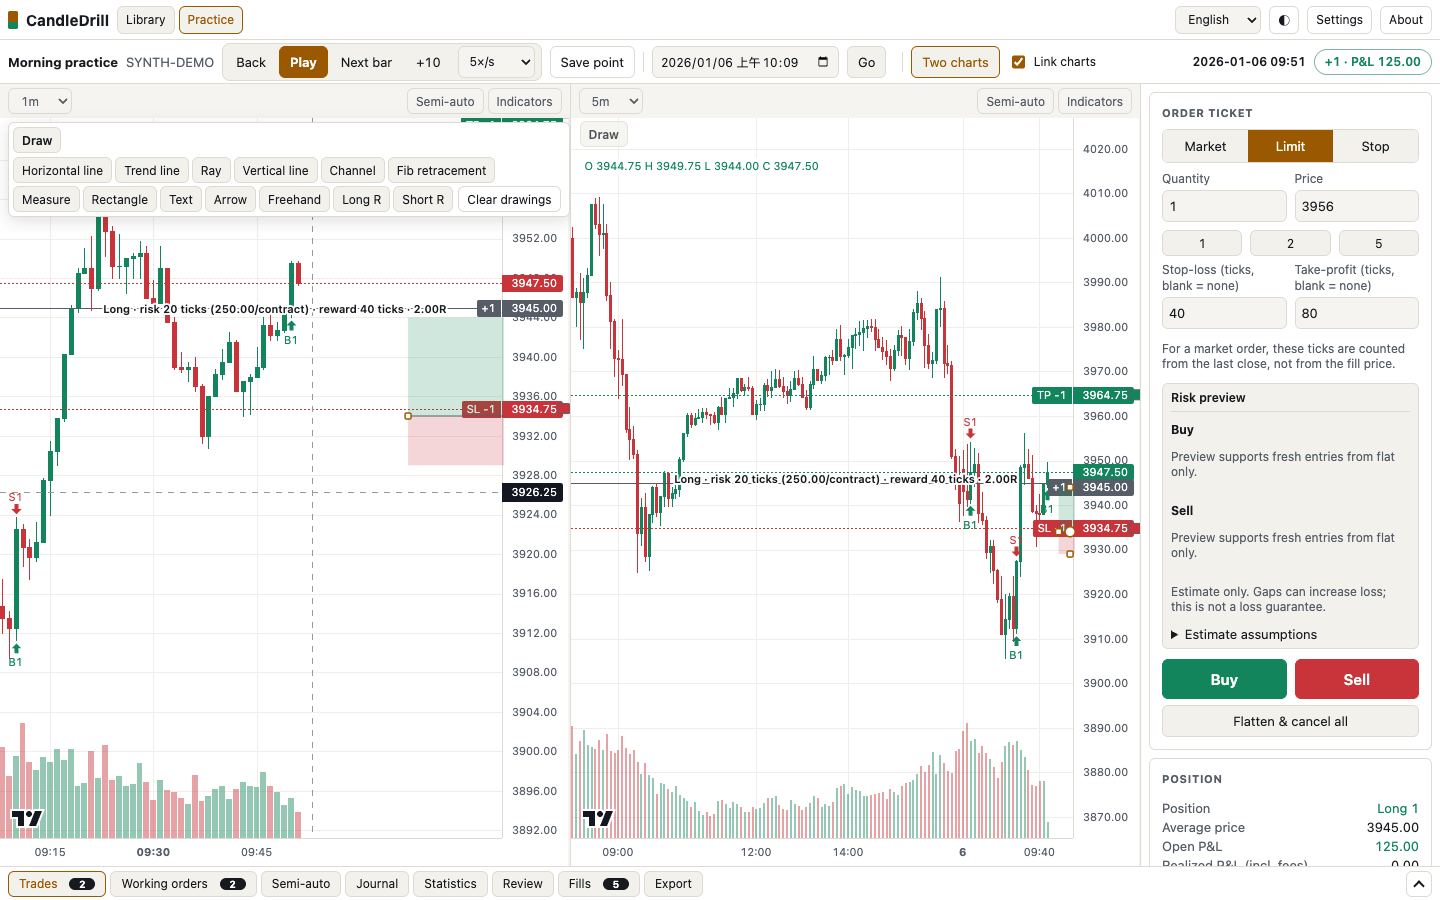
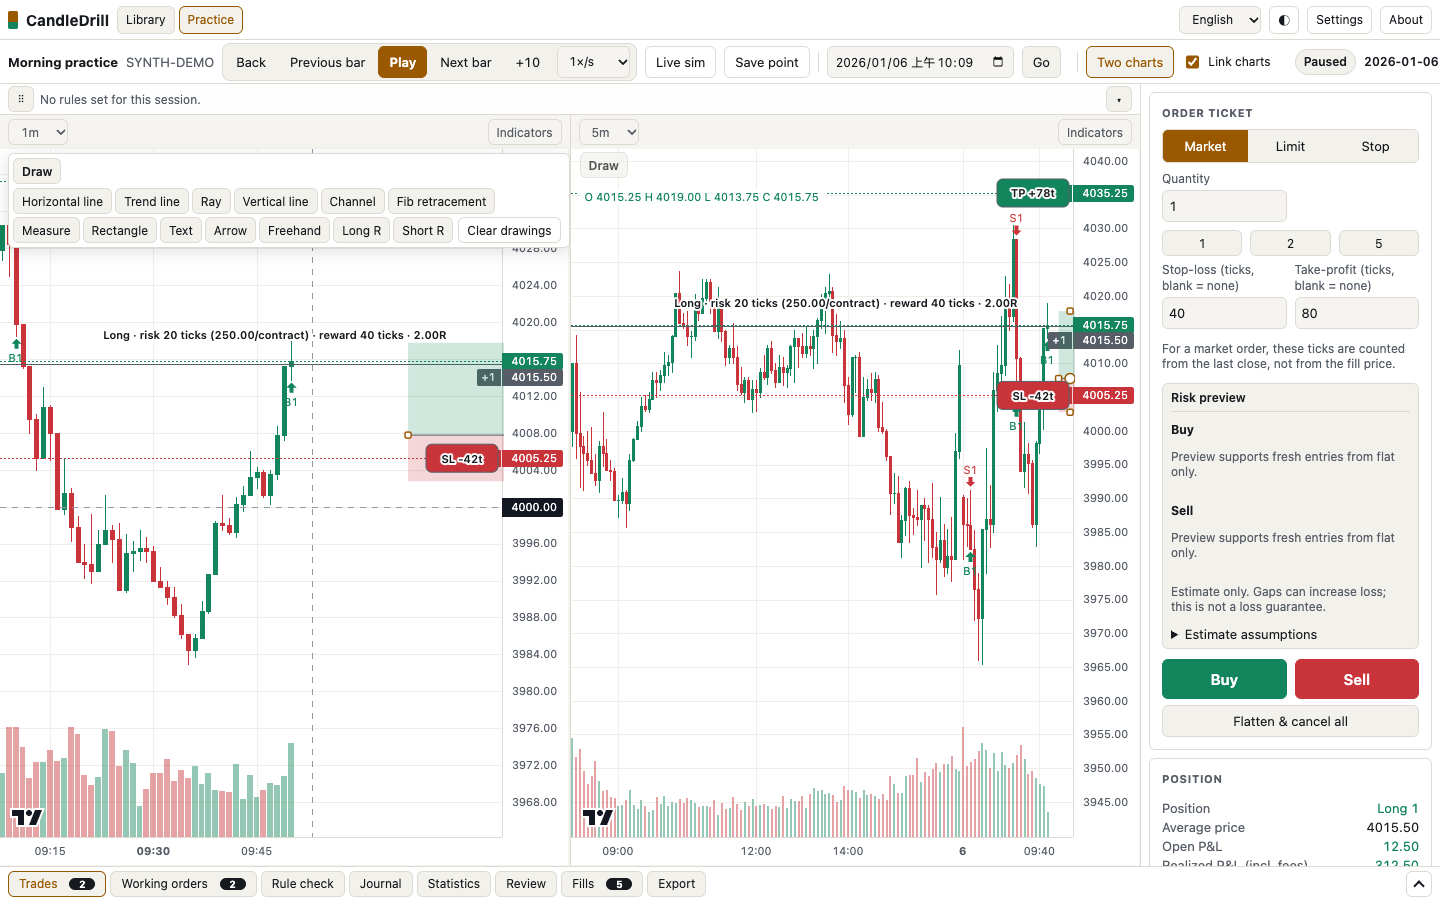
docs: regenerate README screenshots for v1.4.1

diff --git a/README.md b/README.md
@@ -85,6 +85,10 @@ npm start
 - **規則即時觸發：** 每日虧損、追蹤回撤、盈利目標在 tick 上計算，不必等到收棒。
 - 這裡的成交只留在這個畫面，不會寫回回放練習。盲練隱藏數據集時不能開（下一根 K 的高低收不可用）。
 
+![即時模擬：播放中、未平倉盈虧，以及 SYNTHETIC 標記](docs/shot-live-sim.png)
+
+<sub>**即時模擬** — 合成 tick 路徑，並非真實市價。畫面標 SYNTHETIC。</sub>
+
 ### 下單
 
 - 市價／限價／觸價單，括號單（止蝕／止賺以跳計），數量快捷，一鍵平倉。
@@ -131,7 +135,7 @@ npm start
 - **每日盈虧**日曆，以及搜尋／篩選（標籤、筆記、策略、方向、結果、日期）。
 - **檢討**分頁：按已平倉交易的權益曲線、R 分佈、**Monte Carlo**（同一批交易打亂次序，顯示最大回撤百分位及觸及回撤上限的比例；屬模擬，並非預測）。
 
-![檢討分頁：權益曲線、R 分佈、Monte Carlo](docs/shot-review.png)
+![日誌：策略、市況、情緒、是否按計劃、計劃與執行](docs/shot-review.png)
 
 <sub>**檢討** — 合成 `SYNTH-` 示範資料。</sub>
 
@@ -147,7 +151,7 @@ npm start
 
 可搜尋目錄約 **36** 項技術指標（連成交量直方圖共 37 項），只根據**已揭示**的 K 棒計算。原有：SMA／EMA（任意週期）、布林通道、盤中 VWAP、開盤區間（ORB）、唐奇安、RSI、MACD、ATR、隨機指標、ADX。新增包括：肯特納、一目均衡表、超級趨勢、CCI、OBV、蔡金資金流（CMF）、拋物線 SAR、威廉指標、之字轉折、動量震盪（Awesome Oscillator）、包絡線、DEMA、TEMA、WMA、赫爾均線、動量、ROC、阿隆、VWAP 偏差帶、標準誤帶、多空力道（Balance of Power）、KDJ、VWMA、價格通道、艾達射線。完整清單與公式見 [docs/INDICATORS.md](docs/INDICATORS.md)。設定留在本瀏覽器。
 
-![指標面板：已啟用 SMA 9/20/50 與 RSI](docs/shot-indicators.png)
+![指標面板：已啟用超級趨勢與肯特納](docs/shot-indicators.png)
 
 <sub>**指標** — 疊加線與下方視窗。合成 `SYNTH-` 示範資料。</sub>
 
@@ -331,6 +335,10 @@ A second practice mode beside bar replay. The toolbar switches to **Live sim**. 
 - **Tick-level fills:** market, limit, stop and bracket orders (with slippage) fill on a tick, not on the practice-timeframe close.
 - **Rules fire in real time:** daily loss, trailing drawdown and profit target are evaluated on each tick, not at bar close.
 - Fills stay on this screen and are not written back into the replay session. Live sim is unavailable while a blind session hides the dataset (the next bar's OHLC is not available).
+
+![Live sim: playing, an open position with live P&L, and the SYNTHETIC badge](docs/shot-live-sim.png)
+
+<sub>**Live sim** — synthetic tick path, not a real market price. The screen is marked SYNTHETIC.</sub>
 
 ### Orders
 
